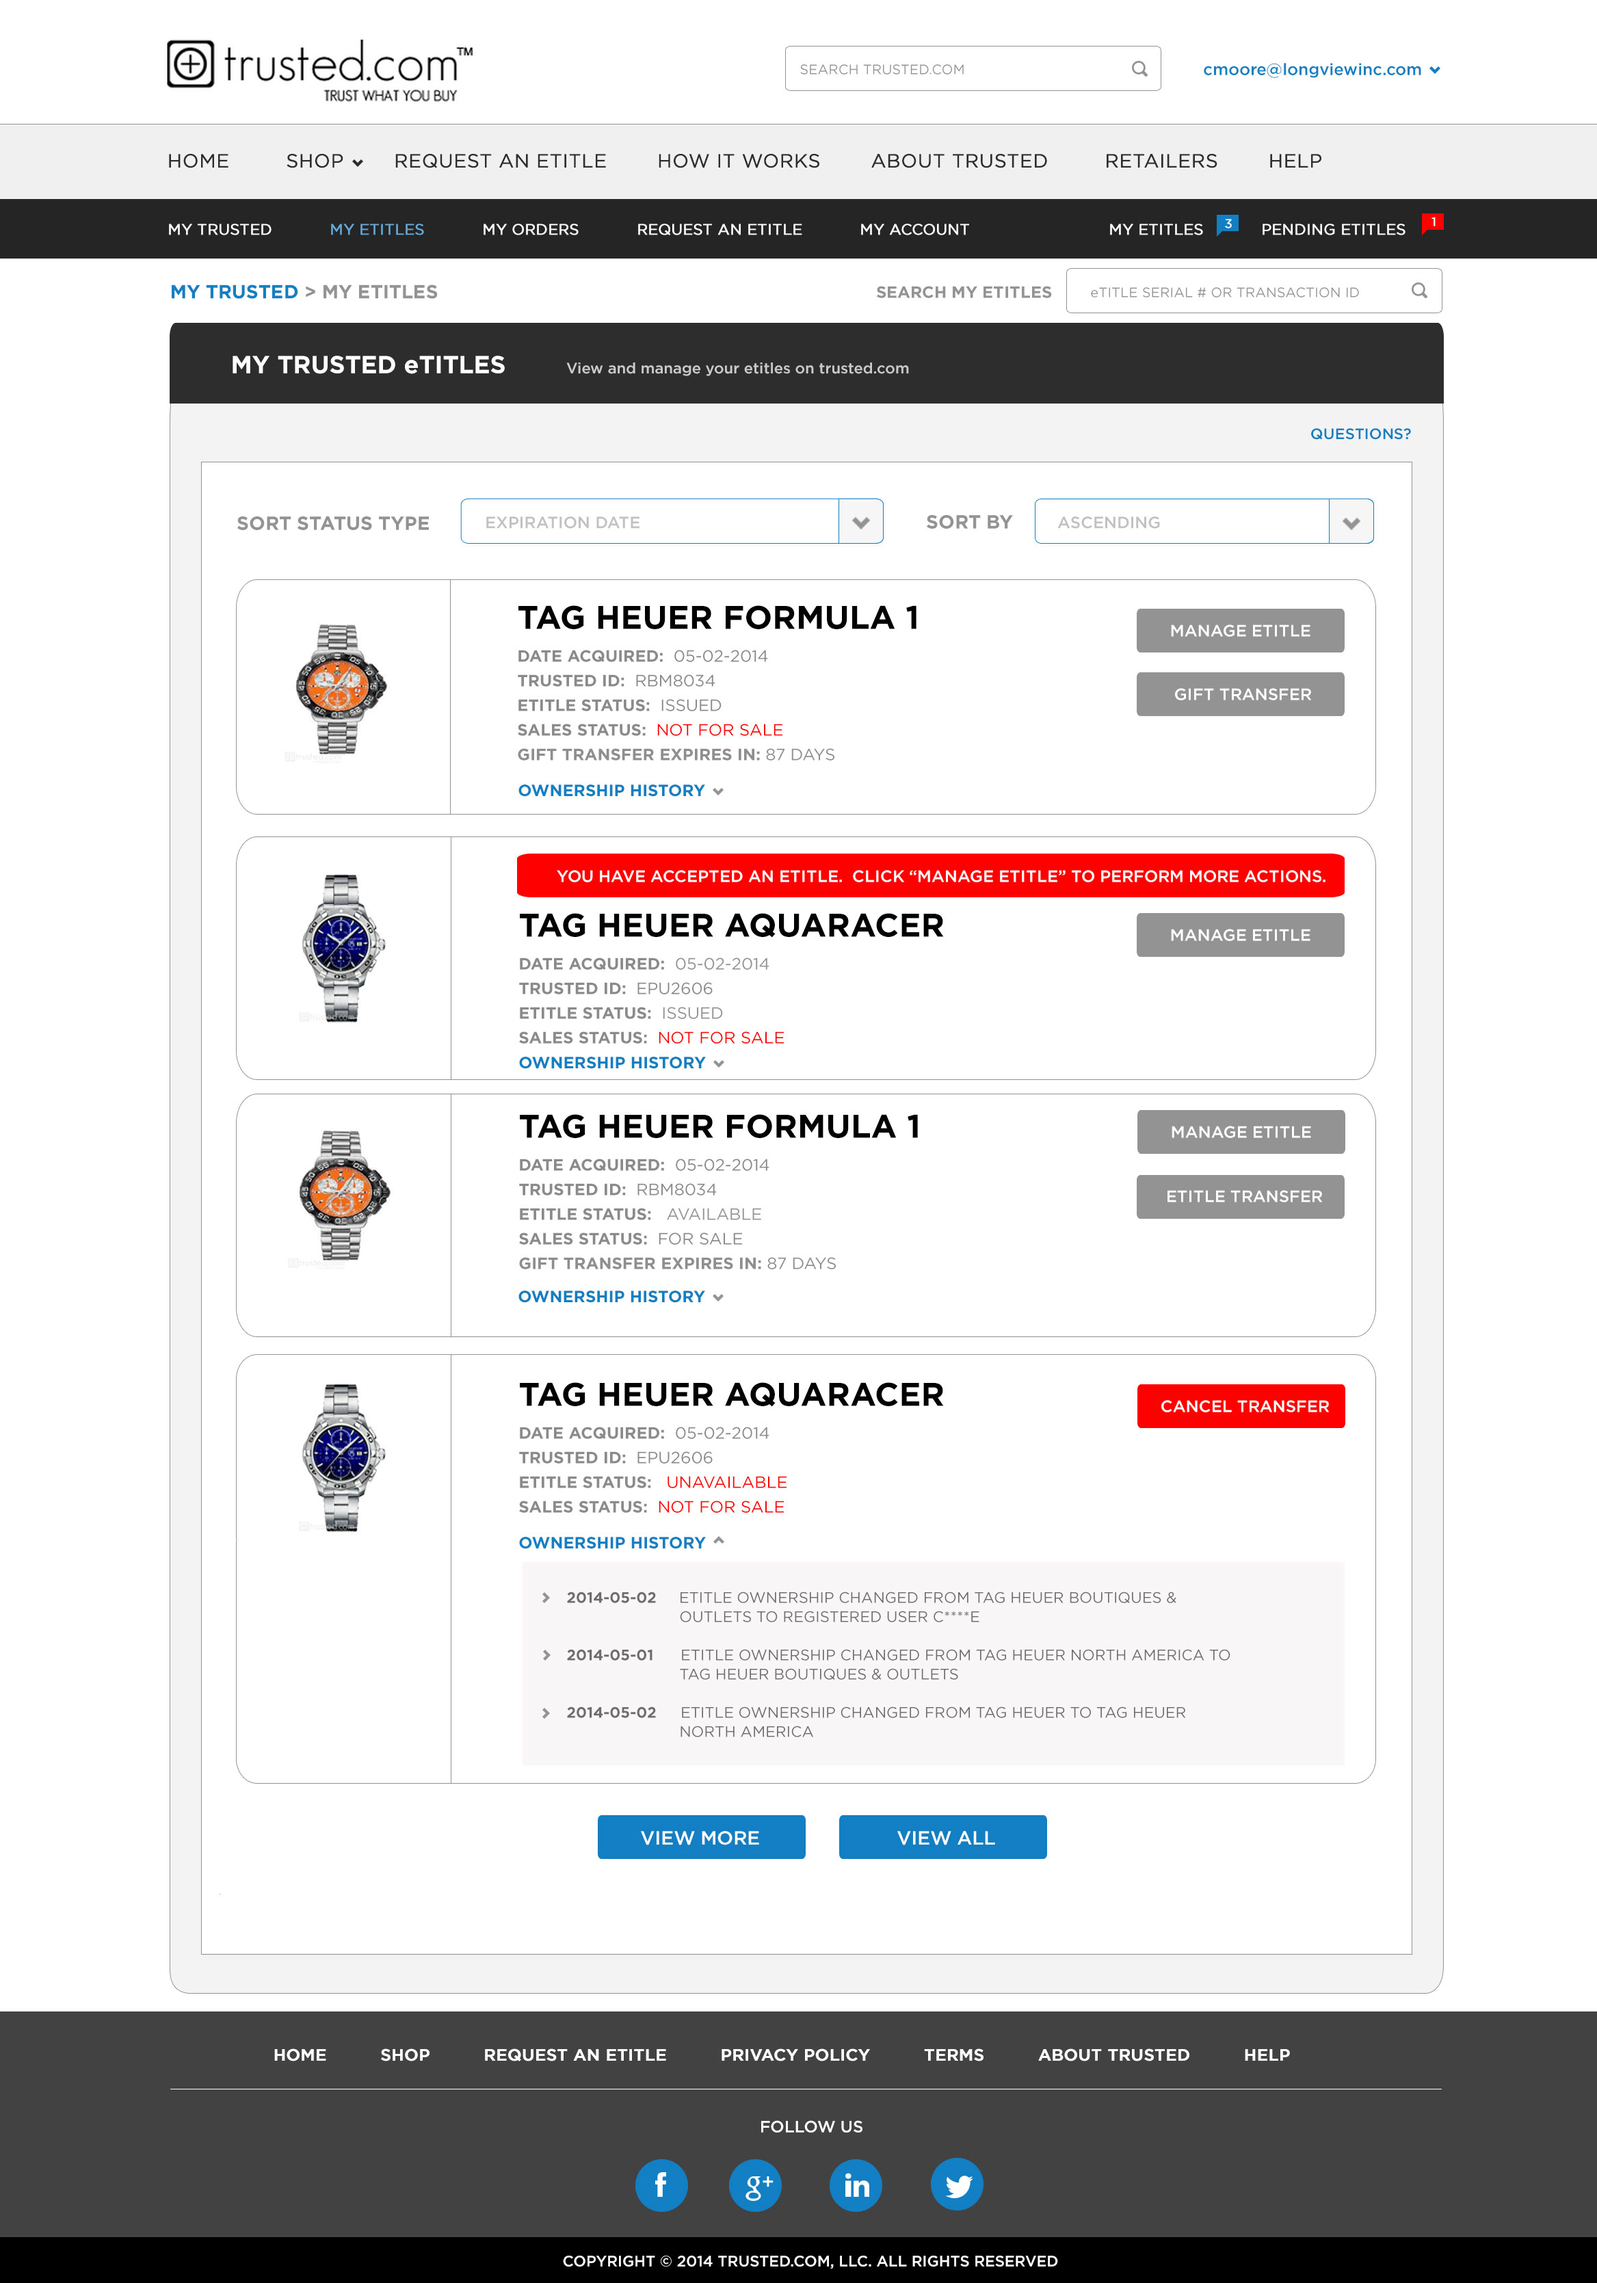
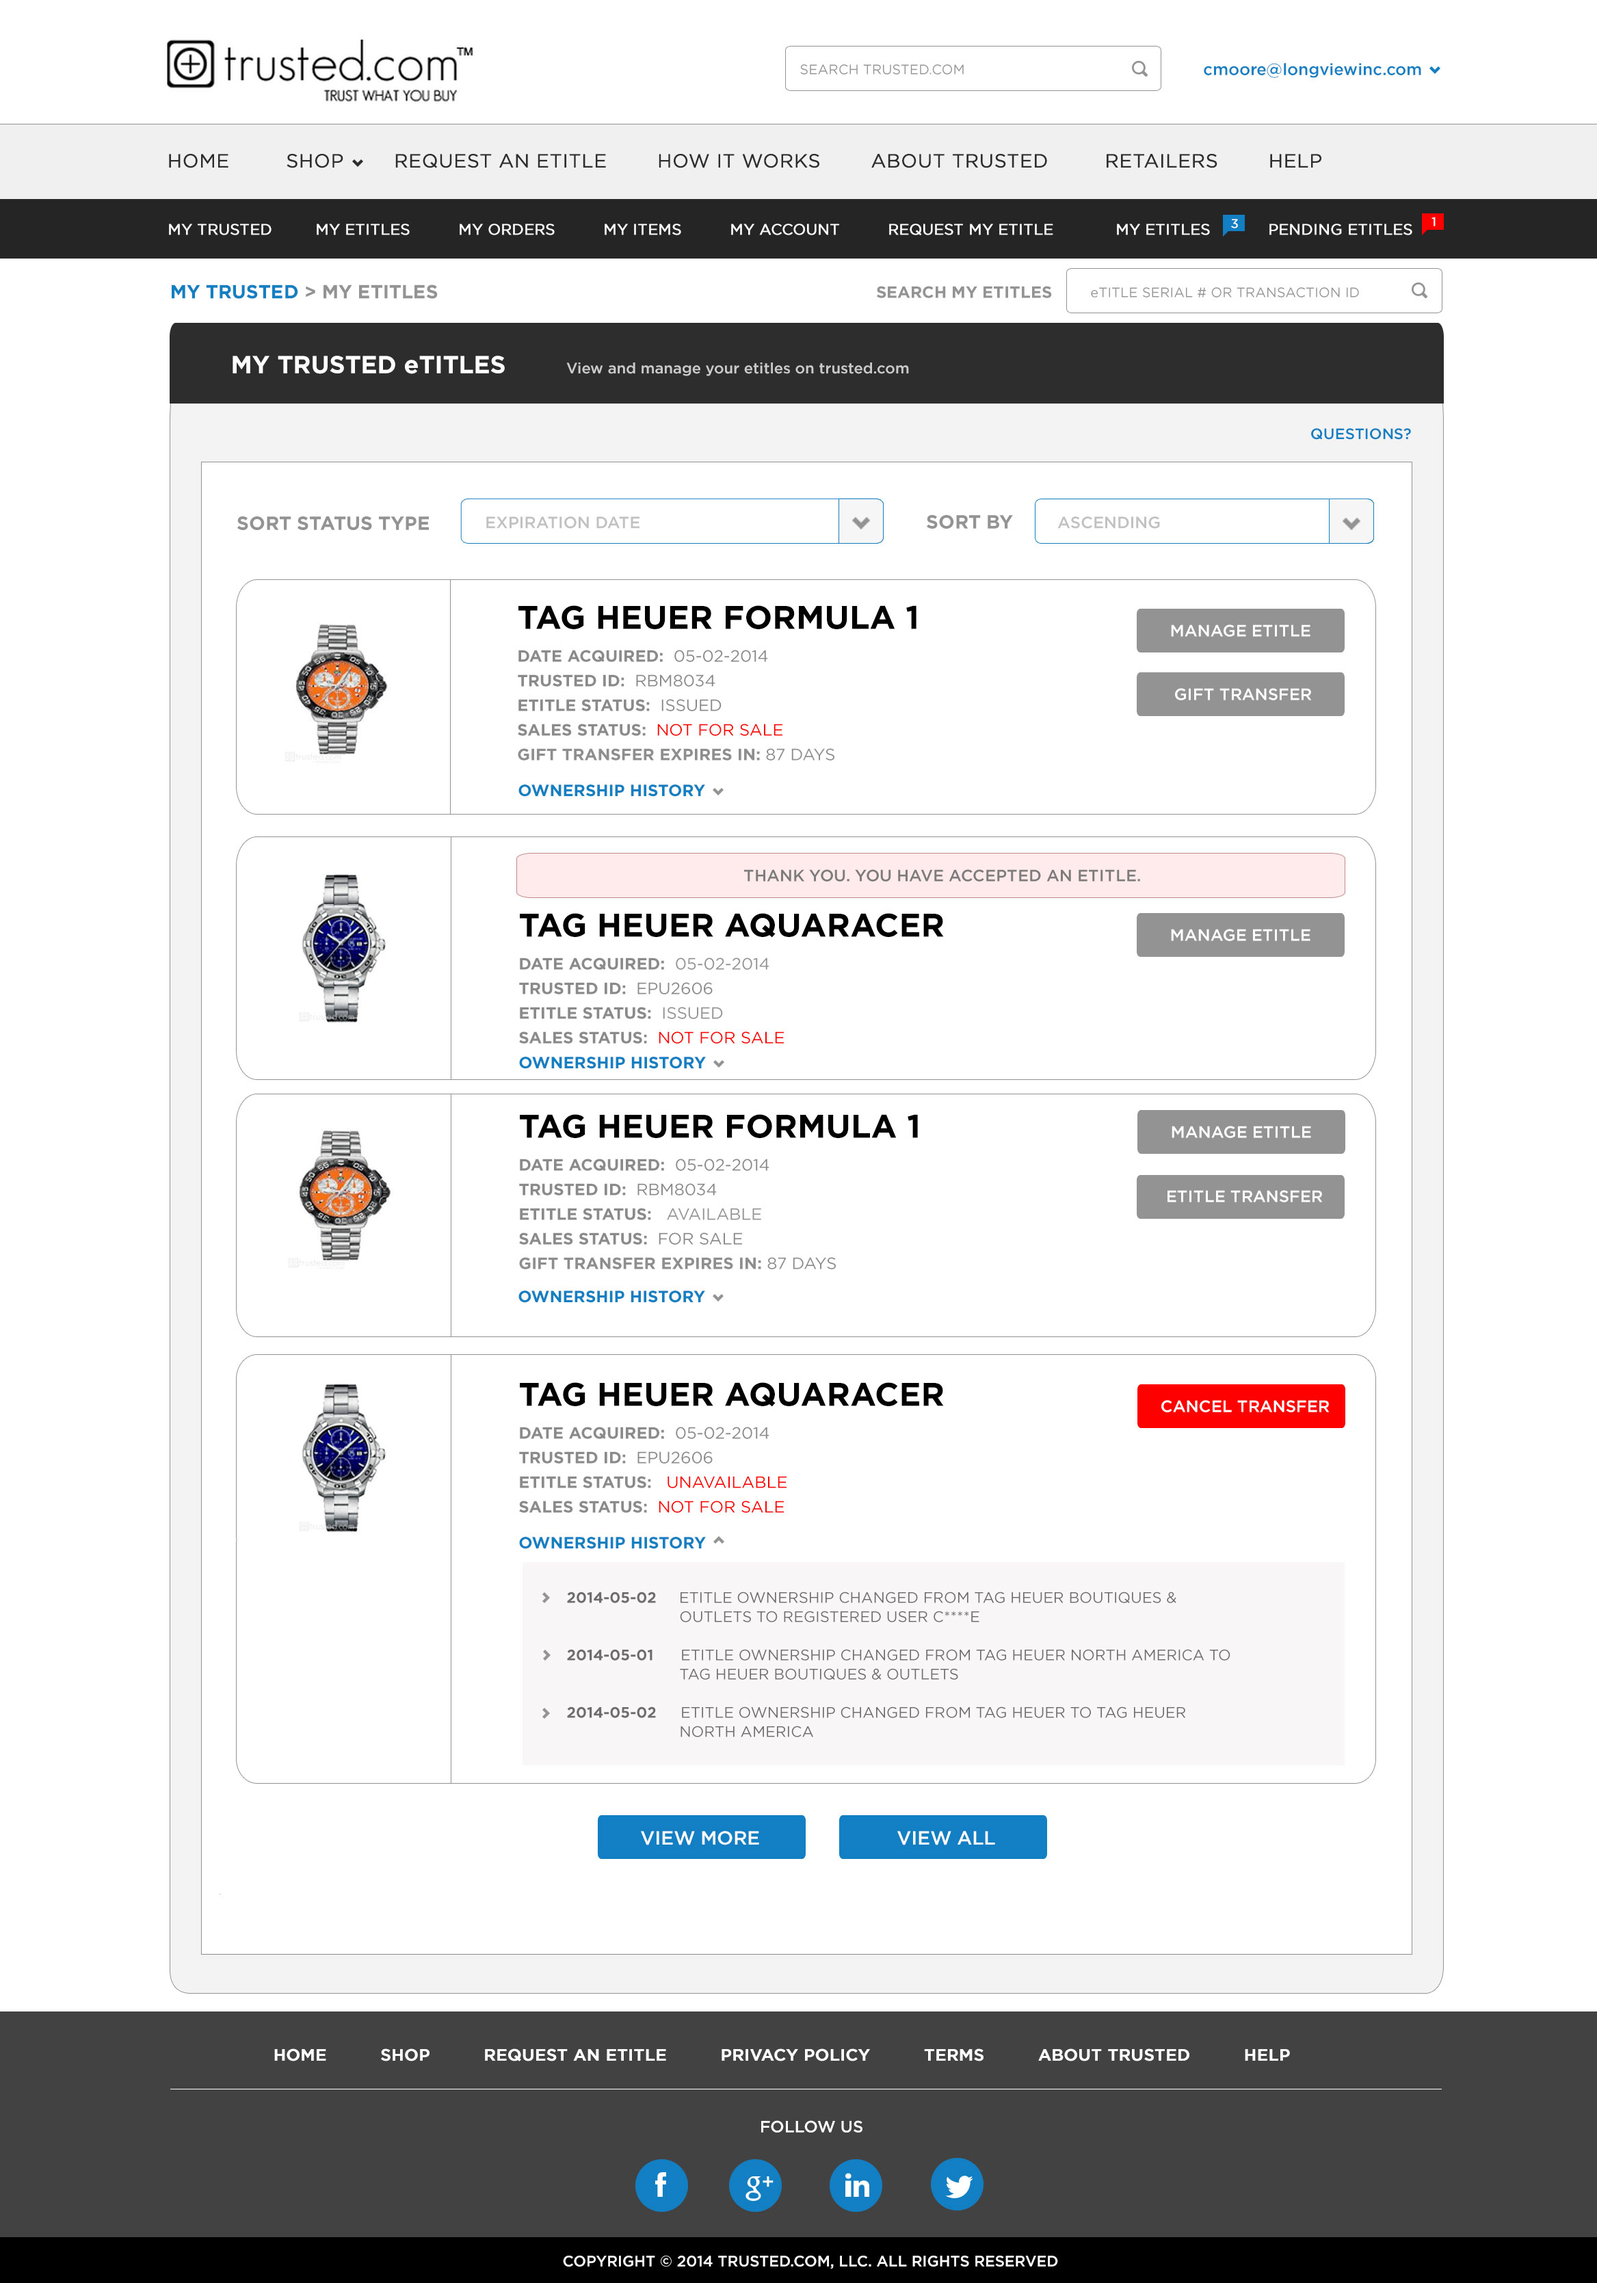
Updates

diff --git a/etitle-accept1.html b/etitle-accept1.html
@@ -2,7 +2,7 @@
 <html>
 <head>
 <meta charset="UTF-8">
-<title>trusted.com</title>
+<title>Untitled Document</title>
 </head>
 <style>
 body {
@@ -16,14 +16,14 @@ img {
 </style>
 <body>
 
-<img src="images/trusted-my-etitles-ux.jpg" alt="" width="2335" height="3338" usemap="#Map"/>
-<map name="Map"><area shape="rect" coords="828,679,990,717" href="etitle-reject.html"><area shape="rect" coords="431,154,513,179" href="my-items.html">
+<img src="images/trusted-my-etitles-ux-accept.jpg" alt="" width="2335" height="3338" usemap="#Map"/>
+<map name="Map">
+  <area shape="rect" coords="431,154,513,179" href="my-items.html">
   <area shape="rect" coords="530,151,631,179" href="account-profile.html">
   <area shape="rect" coords="116,148,205,178" href="index.html">
   <area shape="rect" coords="228,151,314,180" href="etitle.html">
-  <area shape="rect" coords="331,151,420,179" href="my-orders.html"> 
+  <area shape="rect" coords="331,151,420,179" href="my-orders.html">
   <area shape="rect" coords="640,151,772,179" href="my-etitles.html">
-  <area shape="rect" coords="831,635,993,673" href="etitle-accept1.html">
   <area shape="rect" coords="824,441,988,484" href="etitle-detail.html">
 </map>
 </body>

diff --git a/etitle-reject.html b/etitle-reject.html
@@ -2,7 +2,7 @@
 <html>
 <head>
 <meta charset="UTF-8">
-<title>trusted.com</title>
+<title>Untitled Document</title>
 </head>
 <style>
 body {
@@ -16,14 +16,14 @@ img {
 </style>
 <body>
 
-<img src="images/trusted-my-etitles-ux.jpg" alt="" width="2335" height="3338" usemap="#Map"/>
-<map name="Map"><area shape="rect" coords="828,679,990,717" href="etitle-reject.html"><area shape="rect" coords="431,154,513,179" href="my-items.html">
+<img src="images/trusted-my-etitles-ux-reject.jpg" alt="" width="2335" height="3338" usemap="#Map"/>
+<map name="Map">
+  <area shape="rect" coords="431,154,513,179" href="my-items.html">
   <area shape="rect" coords="530,151,631,179" href="account-profile.html">
   <area shape="rect" coords="116,148,205,178" href="index.html">
   <area shape="rect" coords="228,151,314,180" href="etitle.html">
-  <area shape="rect" coords="331,151,420,179" href="my-orders.html"> 
+  <area shape="rect" coords="331,151,420,179" href="my-orders.html">
   <area shape="rect" coords="640,151,772,179" href="my-etitles.html">
-  <area shape="rect" coords="831,635,993,673" href="etitle-accept1.html">
   <area shape="rect" coords="824,441,988,484" href="etitle-detail.html">
 </map>
 </body>
